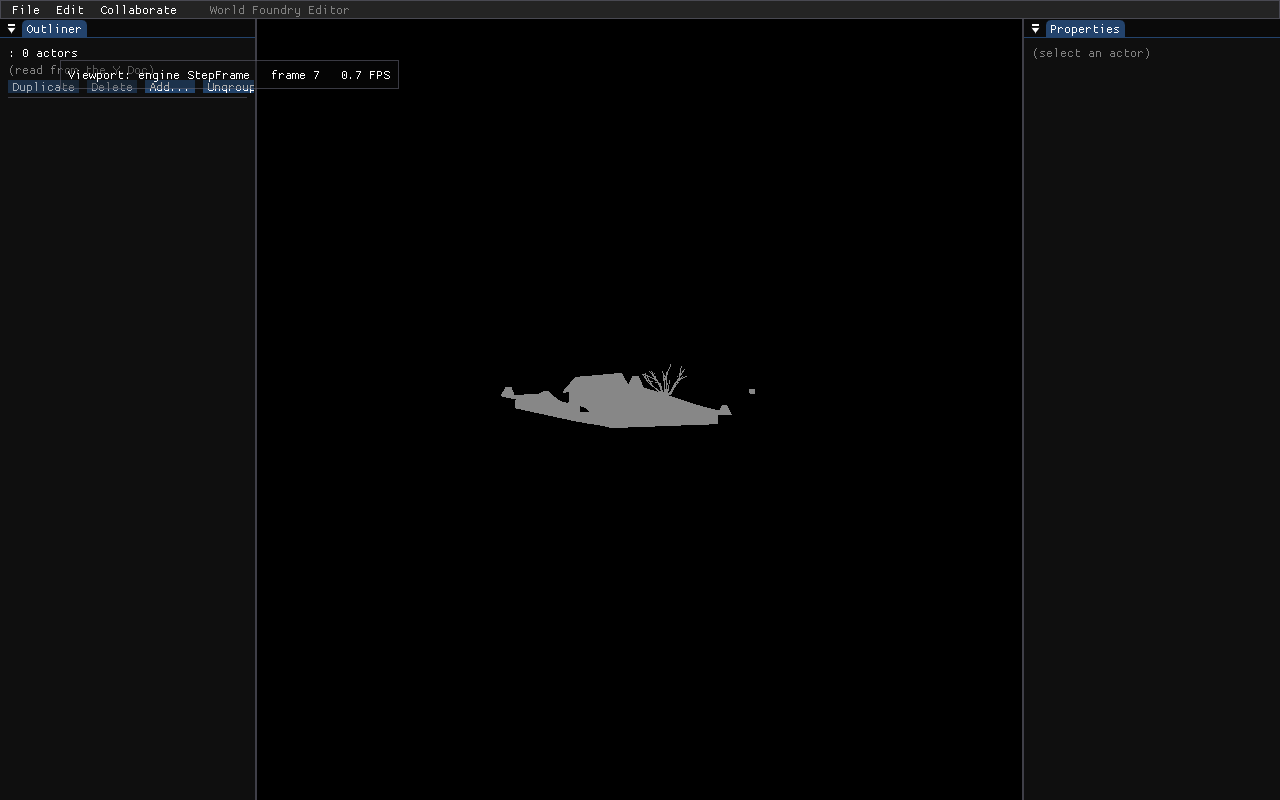
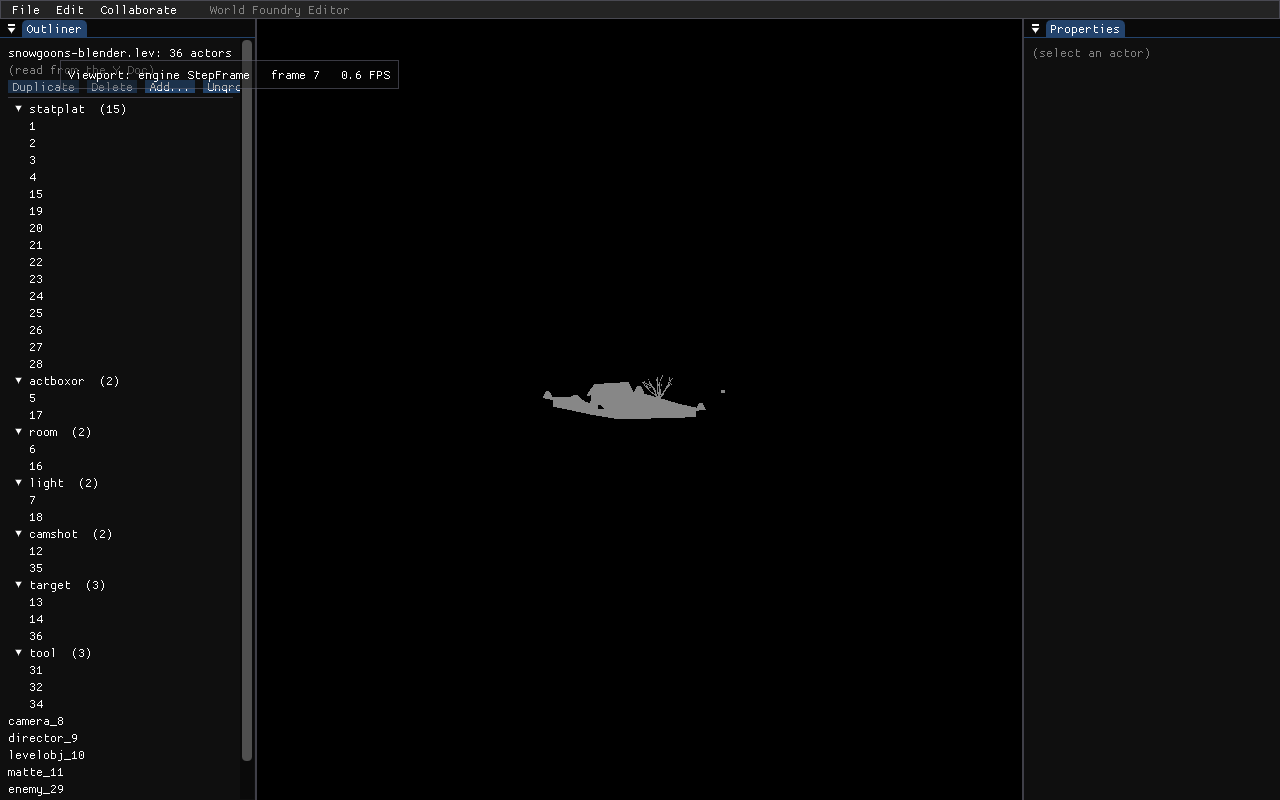
docs(wf-edit/web): Doc-population done + Phase 2 transport verified
Render proof now shows the populated Outliner (36 actors); Phase 2 status records the
verified browser→relay transport (relay logged the join), the Doc-population fix, and
the one remaining multi-peer item (seeding/CRDT-origin — a design follow-up, not transport).

Changed region(s): [[0.1875, 0.0625, 0.2188, 0.9688], [0.375, 0.4688, 0.5625, 0.5312], [0.0, 0.9375, 0.0312, 0.9688]]

diff --git a/docs/plans/2026-06-12-wf-edit-in-the-browser.md b/docs/plans/2026-06-12-wf-edit-in-the-browser.md
@@ -245,20 +245,18 @@ Runtime fixes found (each unblocked the next, classic emscripten bring-up):
      symptoms of the same dead allocator + an independent gamestrm static-init issue; kept as
      they're correct on their own.
 
-   **Render proof — CLEAN build (no fprintf, no ASan), all (a)–(d) fixed:** the editor draws its
-   menu bar (File/Edit/Collaborate), Outliner (0 actors — empty Doc; the popen/levtree
-   Doc-population path is a separate web follow-up), Properties, and the engine viewport
-   rendering the snowgoons terrain, full frame loop completing, **zero traps**. So the
-   whole WASM/WebGL2 + ImGui + engine-viewport architecture is sound — Phase 1 renders
-   end-to-end in a clean build.
+   **Render proof — CLEAN build (no fprintf, no ASan), all (a)–(d) + Doc-population fixed:**
+   the editor draws its menu bar (File/Edit/Collaborate), a **populated Outliner (36 snowgoons
+   actors** — `InitBridgeMap: 36 actors`), Properties, and the engine viewport rendering the
+   snowgoons terrain, full frame loop completing, **zero traps**. So the whole WASM/WebGL2 +
+   ImGui + engine-viewport architecture is sound — Phase 1 renders end-to-end in a clean build.
 
    <img src="screenshots/2026-06-13-wf-edit-web-renders.png" width="700">
 
-   *wf-edit running in headless Chrome (SwiftShader WebGL2): Dear ImGui menu bar +
-   Outliner + Properties panels, and the engine viewport rendering the snowgoons terrain.
-   The Outliner shows 0 actors because the popen/levtree Doc-population path doesn't exist
-   on web yet (separate follow-up); the terrain is flat grey because snowgoons' inherited
-   camera fog (FoggingColor 0x888888, complete at 30 m) greys out anything past the pulled-back
+   *wf-edit running in headless Chrome (SwiftShader WebGL2): Dear ImGui menu bar + Outliner
+   (36 actors: statplat/actboxor/room/light/camshot/target/tool/…) + Properties, and the
+   engine viewport. The terrain is flat grey because snowgoons' inherited camera fog
+   (FoggingColor 0x888888, complete at 30 m) greys out anything past the pulled-back
    edit camera — the known snowgoons fog trap, not missing textures.*
 
 ## Phase 2 — Emscripten WebSocket backend + CRDT sync (co-edit with a native client)
@@ -292,7 +290,7 @@ browser `wf-edit.html` on the same room; moving an actor in one moves it in the 
 (bidirectional `CH_SYNC` + wasm CRDT apply + identical framing). A fresh tab joining
 mid-session shows current edits from the relay snapshot.
 
-### Phase 2 — status (2026-06-13) — 🟢 implemented + compiles; (d) gate cleared → ready to verify
+### Phase 2 — status (2026-06-13) — 🟢 transport verified + Doc-population done; multi-peer co-edit = design follow-up
 
 - **DONE (commits `f713533a`, `58652d7e`)** — real browser-WebSocket backend
   (`ws_client_emscripten.cc` over `emscripten/websocket.h`, same `WsClient` interface +
@@ -301,11 +299,22 @@ mid-session shows current edits from the relay snapshot.
   room-join + wires `observeUpdates`→relay once `connected()` flips; `CollabDrain`
   applies inbound. Threaded connect + mid-session reconnect are native-only. Compiles +
   links into `wf_edit_web`.
-- **GATE CLEARED** — finding (d) (the `editor_build`/`StepFrame` UB) is fixed (`59dc44d3`),
-  so a clean build now reaches `WebConnectStep` / `CollabDrain` every frame. Functional
-  co-edit is now **testable**: run the local `wf-relay` (or `wss://wf.worldfoundry.org`),
-  open `wf-edit.html?room=…&relay=…`, and a native `wf-edit` on the same room; verify
-  bidirectional `CH_SYNC`. (Not yet exercised end-to-end this session — next step.)
+- **GATE CLEARED** — finding (d) fixed (`59dc44d3`), so a clean build runs `editor_build`
+  (`WebConnectStep` / `CollabDrain`) every frame.
+- **TRANSPORT VERIFIED (2026-06-13)** — local `wf-relay` + headless-Chrome
+  `wf-edit.html?room=webtest&relay=ws://localhost:9911`: browser console
+  `relay connected, joined room=webtest`; relay log `[relay] anon joined room webtest`;
+  zero traps. So `ws_client_emscripten` + `WebConnectStep` work end-to-end against a real relay.
+- **DOC-POPULATION FIXED (`be7baa6e`)** — the browser now loads the level locally (36
+  snowgoons actors via preloaded levtree JSON), so it has a base Doc for editing.
+- **REMAINING for multi-peer co-edit (design, not transport):** seeding/CRDT-origin. The
+  relay model is "one peer seeds, others receive incremental deltas," but the web editor
+  (like native) loads its own Doc *before* connecting, so the initial state isn't pushed,
+  and two peers that each load the same `.lev` independently have distinct Yrs client IDs
+  (merge would duplicate, not converge). A correct multi-peer flow is **join-and-receive**
+  (joiner starts empty, adopts the relay/host Doc) vs **load-local** (host seeds). That's a
+  follow-up design step; transport + the sync code (`observeUpdates`/`CollabDrain`, shared
+  with the proven native path) are in place.
 
 ## Phase 3 — Presence + text chat
 
